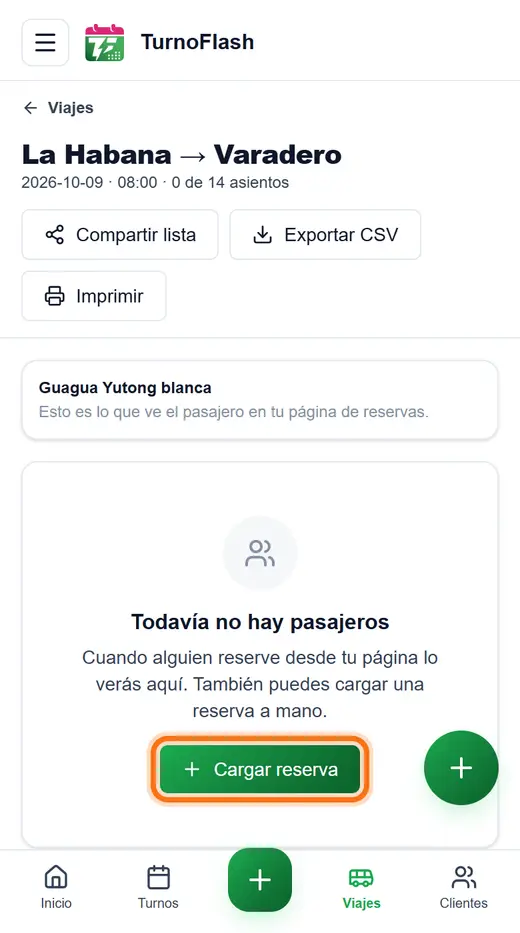
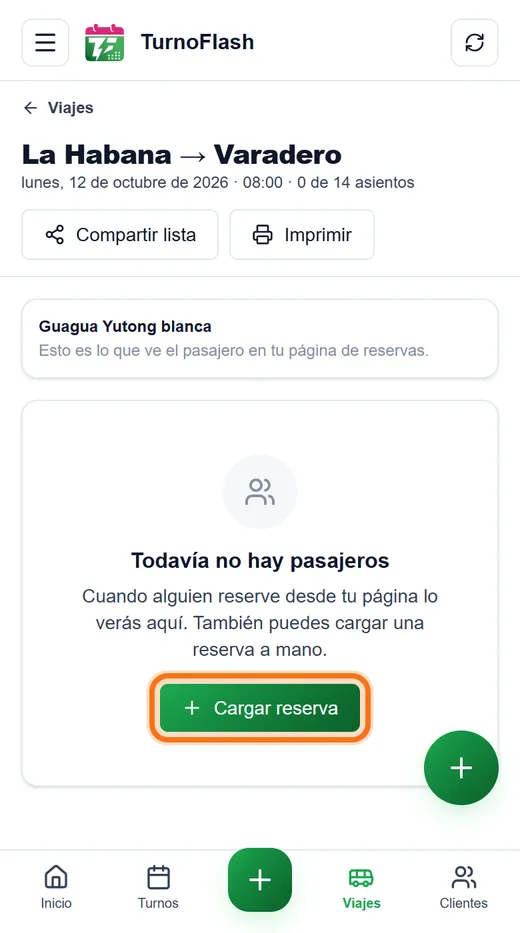
docs: user manual, guide photo and P3 closed
User manual updated with everything visible that changed, the trip detail
photo of the first-steps guide retaken, and the QA plan and project memory
brought up to date. Auto-memory is disabled for the project, as the
factory expects.

diff --git a/docs/user-manual/turno-flash-user-manual.html b/docs/user-manual/turno-flash-user-manual.html
@@ -504,7 +504,7 @@
     <li><strong>Atajos</strong> a las secciones que más se usan.</li>
     <li><strong>Próximos:</strong> los siguientes tres turnos del día que todavía no empezaron. <span class="ui">Ver todos →</span> te lleva a la agenda completa.</li>
   </ul>
-  <p>En la computadora el menú está siempre a la izquierda; ahí también encuentras <span class="ui">Ayuda</span>, que abre esta guía, y puedes cambiar a <span class="ui">Tema oscuro</span> o <span class="ui">Cerrar sesión</span>. En el teléfono tienes una barra inferior con Inicio, Turnos, Clientes y Avisos, y un botón <span class="ui">+</span> en el centro que abre la agenda para crear un turno.</p>
+  <p>En la computadora el menú está siempre a la izquierda; ahí también encuentras <span class="ui">Ayuda</span>, que abre esta guía, y puedes cambiar a <span class="ui">Tema oscuro</span> o <span class="ui">Cerrar sesión</span>. En el teléfono tienes una barra inferior con Inicio, Turnos, Clientes y Avisos, y un botón <span class="ui">+</span> en el centro que abre la agenda para crear un turno. Arriba a la derecha, el botón de las flechas (<span class="ui">Actualizar</span>) vuelve a traer los datos sin salir de la pantalla.</p>
 
   <h2 id="td-turnos">La agenda de turnos</h2>
   <p>Todo pasa en <span class="path">Turnos</span>. Arriba eliges cómo ver la agenda:</p>
@@ -512,7 +512,7 @@
     <table>
       <thead><tr><th>Vista</th><th>Qué muestra</th></tr></thead>
       <tbody>
-        <tr><td><span class="ui">Lista</span></td><td class="wrap">Los turnos desde 7 días atrás hasta 60 días adelante, agrupados por día (Hoy, Mañana, luego la fecha) y dentro de cada día en <em>Mañana</em> y <em>Tarde</em>. Es la única vista con buscador y filtros por estado.</td></tr>
+        <tr><td><span class="ui">Lista</span></td><td class="wrap">Los turnos desde 7 días atrás hasta 60 días adelante, agrupados por día (<em>Hoy</em> y <em>Mañana</em> llevan también la fecha) y dentro de cada día en <em>Por la mañana</em> y <em>Por la tarde</em>. Es la única vista con buscador y filtros por estado.</td></tr>
         <tr><td><span class="ui">Día</span></td><td class="wrap">Una grilla de 8:00 a 20:00 con cada turno dibujado en su horario. Usa las flechas para cambiar de día y <span class="ui">Hoy</span> para volver. Tocar un hueco libre abre el formulario con esa hora ya puesta.</td></tr>
         <tr><td><span class="ui">Semana</span></td><td class="wrap">Los siete días de la semana, de lunes a domingo, en la misma grilla horaria. También puedes tocar un hueco para crear un turno ahí.</td></tr>
       </tbody>
@@ -520,7 +520,7 @@
   </div>
 
   <h3>Buscar y filtrar</h3>
-  <p>En la vista Lista, el buscador encuentra turnos por nombre o teléfono del cliente, por servicio o por profesional. Debajo, las pastillas filtran por estado: Todos, Pendientes, Confirmados, Recordatorio, Cliente OK, Check-in, En curso, Completados y Cancelados. Si hay muchos turnos, al final aparece <span class="ui">Cargar más</span>.</p>
+  <p>En la vista Lista, el buscador encuentra turnos por nombre o teléfono del cliente, por servicio o por profesional. Debajo, las pastillas filtran por estado: Todos, Pendientes, Confirmados, Recordatorio, Cliente OK, Check-in, En curso, Completados, Cancelados y No vino. El buscador y los filtros revisan todos los turnos del período, no solo los que ya están en pantalla. Si hay muchos turnos, al final aparece <span class="ui">Cargar más</span>.</p>
 
   <h3>Crear un turno</h3>
   <ol class="steps">
@@ -581,7 +581,7 @@
   <h2 id="td-clientes">Clientes</h2>
   <p>En <span class="path">Clientes</span> tienes la base de clientes activos, con buscador por nombre, teléfono o email. Cada tarjeta muestra el teléfono, el email, las notas y una marca <strong>WA</strong> si tiene WhatsApp cargado.</p>
   <ul>
-    <li><span class="ui">Nuevo cliente</span>: nombre, apellido y teléfono son obligatorios; WhatsApp, email y notas (preferencias, alergias…) son opcionales.</li>
+    <li><span class="ui">Nuevo cliente</span>: nombre y teléfono son obligatorios; apellido, WhatsApp, email y notas (preferencias, alergias…) son opcionales.</li>
     <li>Menú <span class="ui">⋮</span> › <span class="ui">Editar</span> para corregir datos.</li>
     <li>Menú <span class="ui">⋮</span> › <span class="ui">Desactivar</span> para sacarlo de la lista sin borrar su historial. Lo encuentras en <span class="ui">Inactivos</span>, donde <span class="ui">⋮</span> › <span class="ui">Reactivar</span> lo devuelve a la lista.</li>
     <li><span class="ui">CSV</span> descarga todos los clientes activos con sus contactos, cantidad de turnos, faltas y última visita.</li>
@@ -619,7 +619,7 @@
   <p>El interruptor <span class="ui">Activo</span> / <span class="ui">Pausado</span> de cada tarjeta deja de ofrecer un servicio sin borrarlo. Puedes volver a activarlo cuando quieras.</p>
 
   <h2 id="td-profesionales">Profesionales</h2>
-  <p>En <span class="path">Profesionales</span> cargas a las personas que atienden. Pulsa <span class="ui">Nuevo profesional</span> y completa nombre y apellido; el resto es opcional: apodo (es el nombre que se muestra), teléfono, email, especialidades separadas por coma, una bio y un color para la agenda. Además hay tres casillas:</p>
+  <p>En <span class="path">Profesionales</span> cargas a las personas que atienden. Pulsa <span class="ui">Nuevo profesional</span> y completa nombre y apellido; el resto es opcional: apodo (es el nombre que se muestra), teléfono, email, especialidades separadas por coma, una bio y un color para la agenda. Si esa persona entra a la app con su propia cuenta, elígela en <strong>Cuenta de la app</strong>: así verá la pastilla <span class="ui">Mis turnos</span> en su agenda. Además hay tres casillas:</p>
   <ul>
     <li><strong>Profesional activo:</strong> si está desmarcada, la persona queda pausada.</li>
     <li><strong>Se pueden reservar turnos con esta persona:</strong> desmárcala para quien no atiende clientes (por ejemplo, recepción).</li>
@@ -641,7 +641,7 @@
   <ol class="steps">
     <li>Entra a <span class="path">Ajustes</span> y enciende <strong>Página de reservas online</strong>.</li>
     <li>Pulsa <span class="ui">Guardar cambios</span>. Hasta que guardes, el link no funciona.</li>
-    <li>Usa <span class="ui">Copiar link</span>, <span class="ui">Compartir</span> (abre WhatsApp con el mensaje <em>Reserva tu turno online</em> y el link) o <span class="ui">Ver página</span> para probarla.</li>
+    <li>Con la página ya activa aparecen <span class="ui">Copiar link</span>, <span class="ui">Compartir</span> (abre WhatsApp con el mensaje <em>Reserva tu turno online</em> y el link) y <span class="ui">Ver página</span> para probarla.</li>
   </ol>
   <p>Debajo del link, la app te avisa cuántos profesionales aparecerán y, para los que no, qué les falta (horario o servicios), con un acceso directo a <span class="path">Profesionales</span>.</p>
 
@@ -654,10 +654,10 @@
     <span class="chip plain">Listo</span>
   </div>
   <ul>
-    <li>En <em>¿Con quién?</em> puede elegir a un profesional o <strong>Sin preferencia</strong>, y la app asigna al primero que esté libre.</li>
+    <li>En <em>¿Con quién?</em> puede elegir a un profesional o <strong>Sin preferencia</strong>, y la app asigna al primero que esté libre. Si el servicio lo hace una sola persona, ese paso se salta.</li>
     <li>Solo ve horarios realmente libres, calculados con el horario de cada profesional, sus turnos, sus días libres y los cierres del negocio.</li>
-    <li>En <em>Tus datos</em> deja nombre, apellido, teléfono de WhatsApp (con selector de país), email opcional y una nota para el negocio.</li>
-    <li>Al final ve <strong>¡Turno confirmado!</strong> o, si el servicio requiere aprobación, <strong>Solicitud enviada</strong>, con su número de turno.</li>
+    <li>En <em>Tus datos</em> deja nombre, teléfono de WhatsApp (con selector de país) y, si quiere, apellido, email y una nota para el negocio. Su teléfono recuerda el nombre y el número para la próxima reserva.</li>
+    <li>Al final ve <strong>¡Turno confirmado!</strong> o, si el servicio requiere aprobación, <strong>Solicitud enviada</strong>, con su número de turno. Si cargaste el WhatsApp del negocio en <span class="path">Ajustes</span>, también ve el botón <span class="ui">Escribir al negocio</span>.</li>
   </ul>
   <div class="callout note">
     <span class="tag">Reglas de la reserva online</span>
@@ -720,10 +720,10 @@ Escribe <b>OK</b> para confirmar o <b>CANCELAR</b> si no puedes.</div>
 
   <h3>Cuando el cliente responde</h3>
   <ul>
-    <li><strong>OK, SI o CONFIRMO:</strong> el turno pasa a <span class="chip st-client_confirmed">Cliente confirmó</span> y el negocio recibe <em>Cliente confirmó asistencia</em>. En un turno pendiente solo queda anotado que vendrá: aprobarlo sigue siendo decisión tuya.</li>
+    <li><strong>OK, SI, CONFIRMO o un 👍:</strong> el turno pasa a <span class="chip st-client_confirmed">Cliente confirmó</span> y el negocio recibe <em>Cliente confirmó asistencia</em>. En un turno pendiente solo queda anotado que vendrá: aprobarlo sigue siendo decisión tuya.</li>
     <li><strong>CANCELAR o NO:</strong> el turno se cancela solo, el cliente recibe la confirmación y el negocio, un aviso de <em>Turno cancelado por el cliente</em>.</li>
     <li><strong>Un número del 1 al 5</strong> después de un pedido de valoración: se guarda como rating y alimenta tus reportes.</li>
-    <li><strong>Cualquier otra cosa:</strong> el cliente recibe un mensaje que le vuelve a explicar cómo confirmar o cancelar.</li>
+    <li><strong>Cualquier otra cosa, o una nota de voz:</strong> el cliente recibe un mensaje que le vuelve a explicar cómo confirmar o cancelar.</li>
   </ul>
 
   <h3>Enviar recordatorios a mano</h3>
@@ -775,8 +775,8 @@ Escribe <b>OK</b> para confirmar o <b>CANCELAR</b> si no puedes.</div>
 
   <h2 id="td-licencia">Suscripción y licencia</h2>
   <ul>
-    <li>Empiezas con <strong>7 días de prueba</strong>. Cuando la licencia se acerca a su vencimiento, la app muestra un aviso arriba.</li>
-    <li>Al vencer tienes <strong>7 días de gracia</strong> para renovar. Pasado ese plazo aparece <strong>Acceso bloqueado</strong>: tus datos no se borran, pero no puedes seguir trabajando hasta renovar. Solo quedan abiertas <span class="path">Suscripción</span> y <span class="path">Mi cuenta</span>.</li>
+    <li>Empiezas con <strong>7 días de prueba</strong>. Cuando faltan 7 días o menos, <span class="path">Inicio</span> muestra un aviso con los días de acceso que te quedan.</li>
+    <li>Al vencer tienes <strong>7 días de gracia</strong> para renovar, y el aviso te dice cuántos faltan para el bloqueo. Pasado ese plazo aparece <strong>Acceso bloqueado</strong>: tus datos no se borran, pero no puedes seguir trabajando hasta renovar. Solo quedan abiertas <span class="path">Suscripción</span> y <span class="path">Mi cuenta</span>.</li>
     <li>Para activar o renovar la licencia, entra en <span class="path">Suscripción</span> y pulsa <span class="ui">Escribir a soporte por WhatsApp</span>: te indicamos cómo pagar y activamos la licencia nosotros. El mismo botón aparece en la pantalla de Acceso bloqueado.</li>
   </ul>
 
@@ -837,7 +837,7 @@ Escribe <b>OK</b> para confirmar o <b>CANCELAR</b> si no puedes.</div>
   <h2 id="tp-agenda">La agenda</h2>
   <p>En <span class="path">Turnos</span> elige la vista:</p>
   <ul>
-    <li><span class="ui">Lista</span>: turnos por día, con buscador (cliente, teléfono, servicio o profesional) y filtros por estado.</li>
+    <li><span class="ui">Lista</span>: turnos por día, con buscador (cliente, teléfono, servicio o profesional) y filtros por estado. Si el dueño vinculó tu cuenta con tu ficha de profesional, verás también la pastilla <span class="ui">Mis turnos</span>, que deja solo los tuyos.</li>
     <li><span class="ui">Día</span>: grilla de 8:00 a 20:00. Toca un hueco libre para crear un turno a esa hora.</li>
     <li><span class="ui">Semana</span>: los siete días en la misma grilla.</li>
   </ul>
@@ -898,7 +898,7 @@ Escribe <b>OK</b> para confirmar o <b>CANCELAR</b> si no puedes.</div>
   <h2 id="tp-clientes">Clientes</h2>
   <ul>
     <li>Busca por nombre, teléfono o email.</li>
-    <li><span class="ui">Nuevo cliente</span>: nombre, apellido y teléfono son obligatorios. Anota en <em>Notas</em> lo que conviene recordar (preferencias, alergias).</li>
+    <li><span class="ui">Nuevo cliente</span>: nombre y teléfono son obligatorios; el apellido es opcional. Anota en <em>Notas</em> lo que conviene recordar (preferencias, alergias).</li>
     <li>Menú <span class="ui">⋮</span> › <span class="ui">Editar</span> para corregir datos, o <span class="ui">Desactivar</span> para sacarlo de la lista. Un cliente desactivado ya no aparece, así que úsalo solo cuando corresponda.</li>
   </ul>
 
@@ -1041,7 +1041,7 @@ Escribe <b>OK</b> para confirmar o <b>CANCELAR</b> si no puedes.</div>
   <h3>Otras acciones del menú ⋮ de cada reserva</h3>
   <ul>
     <li><span class="ui">Editar nombres de pasajeros</span>: un nombre por asiento.</li>
-    <li><span class="ui">Aprobar reserva</span> o <span class="ui">Confirmar</span>.</li>
+    <li><span class="ui">Aprobar reserva</span>, mientras esté por aprobar.</li>
     <li><span class="ui">Cancelar reserva</span>: los asientos vuelven a quedar libres y, con WhatsApp conectado, el pasajero recibe un aviso. Si ya había pagado algo, el mensaje le pide contactarte para la devolución.</li>
   </ul>
 
@@ -1059,7 +1059,7 @@ Escribe <b>OK</b> para confirmar o <b>CANCELAR</b> si no puedes.</div>
   <h3>La hoja del chofer</h3>
   <ul>
     <li><span class="ui">Imprimir</span> genera una hoja con el nombre del negocio, los datos de la salida y una fila <strong>por pasajero</strong>: nombre, quién reservó, teléfono, número de reserva, estado, extra, total, lo que pagó y <strong>lo que hay que cobrarle</strong>, con totales al pie. Desde el diálogo de impresión puedes guardarla como PDF.</li>
-    <li><span class="ui">Exportar CSV</span> descarga la misma información para Excel o Google Sheets.</li>
+    <li><span class="ui">Exportar CSV</span> descarga la misma información para Excel o Google Sheets. En el teléfono ese botón no aparece.</li>
     <li><span class="ui">Compartir lista</span> manda la lista como texto (por ejemplo, al WhatsApp del chofer): cada pasajero con su parada y hora de recogida, su teléfono y lo que hay que cobrarle. En la app del teléfono es la única opción; Imprimir y Exportar CSV están en la versión web.</li>
   </ul>
   <p>Los importes se reparten por pasajero: una reserva de 4 asientos por 2 000 figura como 500 por persona. Las reservas canceladas no aparecen ni suman en los totales.</p>
@@ -1067,8 +1067,8 @@ Escribe <b>OK</b> para confirmar o <b>CANCELAR</b> si no puedes.</div>
   <h2 id="vd-pagina">Tu página de reservas</h2>
   <p>En <span class="path">Ajustes</span>, la sección <strong>Página de reservas de viajes</strong> tiene:</p>
   <ul>
-    <li>El interruptor para activarla (luego <span class="ui">Guardar cambios</span>) y el link, con <span class="ui">Copiar link</span>, <span class="ui">Compartir</span> (WhatsApp con <em>Reserva tu asiento</em>) y <span class="ui">Ver página</span>. Si no tienes ninguna salida publicada, te lo advierte.</li>
-    <li><strong>Cómo se paga el anticipo:</strong> las instrucciones que el cliente ve apenas reserva y en el WhatsApp de confirmación, con formato de WhatsApp. Por ejemplo: <em>*Transfiere el anticipo* a la tarjeta 9200 1299 1234 5678 (Juan Pérez) y envíanos el comprobante por WhatsApp.</em></li>
+    <li>El interruptor para activarla (luego <span class="ui">Guardar cambios</span>) y el link. Con la página activa aparecen <span class="ui">Copiar link</span>, <span class="ui">Compartir</span> (WhatsApp con <em>Reserva tu asiento</em>) y <span class="ui">Ver página</span>. Si no tienes ninguna salida publicada, te lo advierte.</li>
+    <li><strong>Cómo se paga el anticipo:</strong> las instrucciones que el cliente ve apenas reserva y en el WhatsApp de confirmación, con formato de WhatsApp. Por ejemplo: <em>*Transfiere el anticipo* a la tarjeta 9200 XXXX XXXX XXXX (tu nombre) y envíanos el comprobante por WhatsApp.</em> Si la página está activa y este texto está vacío, la app te lo avisa.</li>
     <li><strong>Horas para pagar el anticipo:</strong> de 1 a 168 (una semana). Viene en 24.</li>
   </ul>
 
@@ -1082,8 +1082,8 @@ Escribe <b>OK</b> para confirmar o <b>CANCELAR</b> si no puedes.</div>
   <ol class="steps">
     <li><strong>Elige tu viaje:</strong> ve las salidas publicadas con foto, fecha, precio desde y asientos que quedan, o si están sin asientos, por abrir o cerradas.</li>
     <li><strong>Tu reserva:</strong> elige dónde lo recogen, solo ida o ida y vuelta, cuántos asientos (hasta el máximo por reserva) y escribe el nombre de <strong>cada</strong> pasajero, que aquí es obligatorio.</li>
-    <li><strong>Tus datos:</strong> nombre, apellido, teléfono de WhatsApp con su país, email opcional y una nota.</li>
-    <li><strong>Listo:</strong> ve <strong>¡Asiento reservado!</strong> o <strong>Solicitud enviada</strong> si la salida requiere aprobación, con el resumen, el total, el número de reserva, el anticipo que falta, hasta cuándo se guardan sus asientos y tus instrucciones de pago.</li>
+    <li><strong>Tus datos:</strong> nombre, teléfono de WhatsApp con su país y, si quiere, apellido, email y una nota. Su teléfono recuerda el nombre y el número para la próxima reserva.</li>
+    <li><strong>Listo:</strong> ve <strong>¡Asiento reservado!</strong> o <strong>Solicitud enviada</strong> si la salida requiere aprobación, con el resumen, el total, el número de reserva, el anticipo que falta, hasta cuándo se guardan sus asientos y tus instrucciones de pago, con un botón <span class="ui">Copiar instrucciones</span>. Si cargaste el WhatsApp del negocio, también ve <span class="ui">Escribir al negocio</span>.</li>
   </ol>
   <p>La página revisa sola cada 30 segundos cuántos asientos quedan, y vuelve a comprobarlo antes de pedir los datos, para que nadie complete el formulario de una salida que se llenó. Es imposible vender más asientos de los que hay. Un mismo teléfono puede tener hasta 3 reservas futuras.</p>
 

diff --git a/.claude/PRPs/qa-piloto-cuba.md b/.claude/PRPs/qa-piloto-cuba.md
@@ -359,32 +359,32 @@ Formato de cada punto: **id · hallazgos · título**. Quién lo sufre / qué pa
 
 ### P3 — Textos y detalles menores
 
-- **P3-01 · F90+M59 · G47 · Voseo**: `CurrencyCard.tsx:78` "cobras"; `reports/page.tsx:158` "Pídele".
-- **P3-02 · F88+M60 · "MAÑANA" dos veces**: `appointments/page.tsx:737,764` "Por la mañana"/"Por la tarde"; fecha junto a Hoy/Mañana (`:950-963`).
-- **P3-03 · F99+M53+M54+M63 · Copy de viajes**: `TripsSteps.tsx:95` `first-letter:uppercase`; `:105` y `TripsFlow.tsx:132` singular "1 asiento"; `BookingSteps.tsx:314` "confirmarte la reserva"; `utils/format.ts:23` `useGrouping:"always"` (también `wa-trip-send:97`, `daily-summary:250`, `widgets.tsx:14`); fecha formateada en `trips/details/page.tsx:392`; placeholder `ManualBookingSheet.tsx:118` "+53 5XXXXXXX"; `htmlFor` en Field (`sheet.tsx:113`).
-- **P3-04 · G42+M28 · Reportes con "$"**: `useMoney()` en `reports/page.tsx:185,218,337` y en `charts.tsx`.
-- **P3-05 · G48+M62(rol)+F76(rol) · Rol "Staff"/"owner" en crudo**: usar `ROLE_META` en `Sidebar.tsx:190`, `Drawer.tsx:181`, `dashboard/page.tsx:194`, `account/page.tsx:113`.
-- **P3-06 · M62 (resto) · Menús**: no ofrecer "Confirmar" en una reserva ya confirmada (`PassengerRow.tsx:108`); RichText en `pickup_location`; CSV visible en móvil.
-- **P3-07 · M61+M68 · Títulos truncados**: `line-clamp-2` en el h1 del detalle de salida; `break-words` en el saludo (`dashboard/page.tsx:449`); el CTA se resuelve en P1-02.
-- **P3-08 · F68 · El trial dice "6 días" y "renuévala" con doble aviso**: CEIL en `check_license_status` (nueva migración); un solo aviso (`dashboard/page.tsx:436/475`); texto "Prueba gratis: te quedan N días". Se une con **G44** (gracia real de unos 8 días y "0 días restantes"; quitar `NEXT_PUBLIC_LICENSE_GRACE_PERIOD_DAYS`).
-- **P3-09 · F69+F70+F71 · Textos de onboarding**: `register/page.tsx:221` "escríbele al soporte"; FAQ `home-client.tsx:235,657`; en Ajustes, contacto "Pedir conexión de WhatsApp" + campo `whatsapp_phone`.
-- **P3-10 · F95+M55 · Sin contacto del negocio en la página pública**: `whatsapp_phone` en `public_booking_info`/trips info; enlace "Escribir al negocio" en el éxito y en `too_many_bookings`.
-- **P3-11 · F96+M32 · Vista previa de WhatsApp con marketing para dueños**: openGraph propio en `app/book/layout.tsx` y nuevo `app/trips/layout.tsx`; quitar `openGraph.url` del root.
-- **P3-12 · F97 · Zona horaria desde el exterior**: nota "Horarios en hora local del negocio" si el dispositivo está en otra zona.
-- **P3-13 · F94+M37 · Flujo público más corto**: saltar el paso de profesional si hay uno solo (`BookingFlow.tsx:159-180`); apellido opcional; recordar nombre y teléfono en el dispositivo → D-04.
-- **P3-14 · M51+M52 · Botón principal bajo el pliegue y Enter que envía**: contenedor sticky para el CTA (`BookingSteps.tsx:383`, `TripsSteps.tsx:361`); `enterKeyHint` + enfocar el siguiente campo.
-- **P3-15 · M56 · Copiar instrucciones del anticipo**: botón "Copiar instrucciones" (`TripsFlow.tsx:290`).
-- **P3-16 · F108 · Placeholder del anticipo que parece real**: "Ejemplo: 9200 XXXX…" y aviso si está vacío con la página activa (`TripBookingDetails.tsx:129-133`).
-- **P3-17 · F41+F37 · "No vino" en un turno en curso y transiciones solo en el cliente**: ocultar el tile (`AppointmentModal.tsx:491`); etiquetas en español (`appointments.service.ts:276`); `.eq('status', actual)` en el UPDATE (`:306`).
-- **P3-18 · F63+G13+G38+G39 · Permisos menores**: quitar `driver_phone` de `public_trips_info` (042:348-350); política RESTRICTIVE DELETE solo para owner/admin en customers/appointments; `special` en `canManageAppointments` (`appointments/page.tsx:122`); filtrar los DELETE de Realtime ajenos.
-- **P3-19 · F106+F107+F112+F113+F114 · Backend menor**: `z.iso.date()` (`public-booking/index.ts:49`); guard de módulo en `dashboard/layout.tsx`; `notify_business_new` solo `source='web'` (016); lock por organización + índice único en la numeración; índice `(organization_id, booking_phone_key(...))`.
-- **P3-20 · G15+G16+G20+G34+G35+G37 · WhatsApp y licencia menores**: no enviar resumen ni campañas con la licencia vencida o la org inactiva; RevenueCat (SANDBOX, GREATEST, `verify_jwt=false` en config.toml); revalidar la licencia tras la compra; resumen diario con viajes, moneda y reintento (`status='sent'`); dedup de wa-inbound borrando en el catch; notas de voz → aclaración y 👍 = confirmar.
-- **P3-21 · F101+F102+F104+F109+G45+G46 · Admin y ajustes menores**: confirmar al apagar un módulo; selector de organización al invitar; KPIs de Plataforma en rojo cuando hay fallos; textos de eliminar cuenta y de LicenseGate neutrales según el módulo; Compartir/Copiar solo con la página activa (`BookingPageDetails.tsx:55-63`); aviso "Solo el dueño puede…" uniforme.
-- **P3-22 · F92 · Búsqueda de la Lista solo sobre lo cargado**: chip "No vino" y búsqueda en el servidor.
-- **P3-23 · G27+G28 · Empleado**: vincular el usuario con su ficha de profesional + filtro "Mis turnos"; aviso de solo lectura en Viajes.
-- **P3-24 · M64+M65+M66 · Panel**: botón "Actualizar" en la cabecera móvil; guardar el tema solo cuando el usuario lo elige (`theme-context.tsx:70-76`); montar `useCapacitor()` (barra de estado).
-- **P3-25 · M69 · 320 px**: `ExceptionsEditor.tsx:119,140` en una columna por debajo de 360 px.
-- **P3-26 · M16+G18 · Avisos engañosos de WhatsApp**: el mensaje sí se entrega aunque OpenWA responda 500 (confirmado por Roberto), pero el envío manual muestra "Internal server error" en inglés y las filas quedan 'failed'. Téc: `services/appointments.service.ts:648-653`, mensaje en español y tratar el 500 de OpenWA como enviado-sin-confirmar. Las estadísticas de `platform/page.tsx:153-159` no deben alarmar por ese 500. `wa-inbound/index.ts:429-435`: la alerta "WhatsApp desconectado" no se guarda (`user_id` NOT NULL). **No** agregar reintentos, porque duplicarían los mensajes.
+- **P3-01 · ✅ HECHO 2026-10-08 · F90+M59 · G47 · Voseo**: `CurrencyCard.tsx:78` "cobras"; `reports/page.tsx:158` "Pídele".
+- **P3-02 · ✅ HECHO 2026-10-08 («Por la mañana»/«Por la tarde»; «Hoy · miércoles, 8 oct») · F88+M60 · "MAÑANA" dos veces**: `appointments/page.tsx:737,764` "Por la mañana"/"Por la tarde"; fecha junto a Hoy/Mañana (`:950-963`).
+- **P3-03 · ✅ HECHO 2026-10-08 (desplegado; `htmlFor` resuelto en `Field` con `useId` para todos los formularios) · F99+M53+M54+M63 · Copy de viajes**: `TripsSteps.tsx:95` `first-letter:uppercase`; `:105` y `TripsFlow.tsx:132` singular "1 asiento"; `BookingSteps.tsx:314` "confirmarte la reserva"; `utils/format.ts:23` `useGrouping:"always"` (también `wa-trip-send:97`, `daily-summary:250`, `widgets.tsx:14`); fecha formateada en `trips/details/page.tsx:392`; placeholder `ManualBookingSheet.tsx:118` "+53 5XXXXXXX"; `htmlFor` en Field (`sheet.tsx:113`).
+- **P3-04 · ✅ HECHO 2026-10-08 (`useMoney` en Reportes y en los gráficos; se quitó `formatMoney` de widgets) · G42+M28 · Reportes con "$"**: `useMoney()` en `reports/page.tsx:185,218,337` y en `charts.tsx`.
+- **P3-05 · ✅ HECHO 2026-10-08 (`ROLE_META` en Sidebar, Drawer y Mi cuenta; en Inicio `roleLabel` ya no se usaba) · G48+M62(rol)+F76(rol) · Rol "Staff"/"owner" en crudo**: usar `ROLE_META` en `Sidebar.tsx:190`, `Drawer.tsx:181`, `dashboard/page.tsx:194`, `account/page.tsx:113`.
+- **P3-06 · ✅ HECHO 2026-10-08 (sin «Confirmar» en reservas confirmadas; CSV oculto en móvil; `pickup_location` ya usaba RichText) · M62 (resto) · Menús**: no ofrecer "Confirmar" en una reserva ya confirmada (`PassengerRow.tsx:108`); RichText en `pickup_location`; CSV visible en móvil.
+- **P3-07 · ✅ HECHO 2026-10-08 · M61+M68 · Títulos truncados**: `line-clamp-2` en el h1 del detalle de salida; `break-words` en el saludo (`dashboard/page.tsx:449`); el CTA se resuelve en P1-02.
+- **P3-08 · ✅ HECHO 2026-10-08 (migración 067 aplicada: días redondeados hacia arriba y gracia de 7 días exactos; un solo aviso en Inicio; textos «Te quedan N días de acceso», sin distinguir prueba de licencia paga porque la BD no lo guarda; gracia fija en 7, ya no lee la variable de entorno) · F68 · El trial dice "6 días" y "renuévala" con doble aviso**: CEIL en `check_license_status` (nueva migración); un solo aviso (`dashboard/page.tsx:436/475`); texto "Prueba gratis: te quedan N días". Se une con **G44** (gracia real de unos 8 días y "0 días restantes"; quitar `NEXT_PUBLIC_LICENSE_GRACE_PERIOD_DAYS`).
+- **P3-09 · ✅ HECHO 2026-10-08 (registro: «Para cambiarlo después, escríbenos por WhatsApp»; FAQ y CTA del landing ya no hablan de invitación; enlace «Pedir conexión de WhatsApp» en Ajustes; el campo `whatsapp_phone` ya estaba en ContactCard) · F69+F70+F71 · Textos de onboarding**: `register/page.tsx:221` "escríbele al soporte"; FAQ `home-client.tsx:235,657`; en Ajustes, contacto "Pedir conexión de WhatsApp" + campo `whatsapp_phone`.
+- **P3-10 · ✅ HECHO 2026-10-08 (migración 068: `contact_phone` en los dos payloads públicos; `BusinessContactLink` en el éxito y al llegar al límite) · F95+M55 · Sin contacto del negocio en la página pública**: `whatsapp_phone` en `public_booking_info`/trips info; enlace "Escribir al negocio" en el éxito y en `too_many_bookings`.
+- **P3-11 · ✅ HECHO 2026-10-08 (openGraph propio en /book y nuevo `app/trips/layout.tsx`; sin `openGraph.url` en la raíz) · F96+M32 · Vista previa de WhatsApp con marketing para dueños**: openGraph propio en `app/book/layout.tsx` y nuevo `app/trips/layout.tsx`; quitar `openGraph.url` del root.
+- **P3-12 · ✅ HECHO 2026-10-08 (`BusinessTimeNote`: compara el reloj del dispositivo con el del negocio, no el nombre de la zona) · F97 · Zona horaria desde el exterior**: nota "Horarios en hora local del negocio" si el dispositivo está en otra zona.
+- **P3-13 · ✅ HECHO 2026-10-08 (migración 069: apellido opcional en las dos RPC; se recuerda nombre y teléfono en `localStorage` `turnoflash:customer`; con un solo profesional se salta «¿Con quién?». Desplegado y comprobado desde fuera; el panel tampoco exige apellido) · F94+M37 · Flujo público más corto**: saltar el paso de profesional si hay uno solo (`BookingFlow.tsx:159-180`); apellido opcional; recordar nombre y teléfono en el dispositivo → D-04.
+- **P3-14 · ✅ HECHO 2026-10-08 (botón fijo abajo en Tus datos y en asientos; Enter pasa al campo siguiente; probado a 360x640) · M51+M52 · Botón principal bajo el pliegue y Enter que envía**: contenedor sticky para el CTA (`BookingSteps.tsx:383`, `TripsSteps.tsx:361`); `enterKeyHint` + enfocar el siguiente campo.
+- **P3-15 · ✅ HECHO 2026-10-08 · M56 · Copiar instrucciones del anticipo**: botón "Copiar instrucciones" (`TripsFlow.tsx:290`).
+- **P3-16 · ✅ HECHO 2026-10-08 · F108 · Placeholder del anticipo que parece real**: "Ejemplo: 9200 XXXX…" y aviso si está vacío con la página activa (`TripBookingDetails.tsx:129-133`).
+- **P3-17 · ✅ HECHO 2026-10-08 (sin «No vino» en un turno en curso; etiquetas con `getStatusLabel`; el UPDATE exige el estado que se validó) · F41+F37 · "No vino" en un turno en curso y transiciones solo en el cliente**: ocultar el tile (`AppointmentModal.tsx:491`); etiquetas en español (`appointments.service.ts:276`); `.eq('status', actual)` en el UPDATE (`:306`).
+- **P3-18 · ✅ HECHO 2026-10-08 salvo `special` (`driver_phone` fuera del payload público, 068; borrar clientes y turnos solo owner/admin, migración 070 RESTRICTIVE; los DELETE ajenos de Realtime ya se filtraban; `special` sigue aparcado por decisión de Roberto) · F63+G13+G38+G39 · Permisos menores**: quitar `driver_phone` de `public_trips_info` (042:348-350); política RESTRICTIVE DELETE solo para owner/admin en customers/appointments; `special` en `canManageAppointments` (`appointments/page.tsx:122`); filtrar los DELETE de Realtime ajenos.
+- **P3-19 · ✅ HECHO 2026-10-08 (migración 071: `notify_business_new` solo con `source = web`, lock por organización + índices únicos en la numeración, índice por `booking_phone_key`; guard de módulo en el layout del panel; `z.iso.date()` en `public-booking`, desplegado) · F106+F107+F112+F113+F114 · Backend menor**: `z.iso.date()` (`public-booking/index.ts:49`); guard de módulo en `dashboard/layout.tsx`; `notify_business_new` solo `source='web'` (016); lock por organización + índice único en la numeración; índice `(organization_id, booking_phone_key(...))`.
+- **P3-20 · ✅ HECHO 2026-10-08 (desplegado: resumen diario y campañas no salen con licencia vencida u org inactiva; resumen con moneda del negocio y línea de viajes; `wa-inbound` olvida el evento si falla, trata una nota de voz como respuesta ilegible y un 👍 solo como confirmación; migración 072: los eventos SANDBOX de RevenueCat solo se auditan y una compra nunca acorta la licencia (GREATEST); la licencia se revalida tras la compra. **No se hace** el reintento del resumen: OpenWA responde 500 y entrega, reintentar duplicaría. Sin probar con teléfono real) · G15+G16+G20+G34+G35+G37 · WhatsApp y licencia menores**: no enviar resumen ni campañas con la licencia vencida o la org inactiva; RevenueCat (SANDBOX, GREATEST, `verify_jwt=false` en config.toml); revalidar la licencia tras la compra; resumen diario con viajes, moneda y reintento (`status='sent'`); dedup de wa-inbound borrando en el catch; notas de voz → aclaración y 👍 = confirmar.
+- **P3-21 · ✅ HECHO 2026-10-08 (confirmación al apagar un módulo; selector de negocio al invitar como admin; Errores en rojo solo si hay sin resolver; Copiar/Compartir solo con la página activa; los avisos «Solo los dueños pueden…» ya eran uniformes y Mi cuenta / LicenseGate no nombran módulos) · F101+F102+F104+F109+G45+G46 · Admin y ajustes menores**: confirmar al apagar un módulo; selector de organización al invitar; KPIs de Plataforma en rojo cuando hay fallos; textos de eliminar cuenta y de LicenseGate neutrales según el módulo; Compartir/Copiar solo con la página activa (`BookingPageDetails.tsx:55-63`); aviso "Solo el dueño puede…" uniforme.
+- **P3-22 · ✅ HECHO 2026-10-08 (la Lista filtra estado y texto en el servidor, solo en vista Lista; chip «No vino»; probado con el empleado QA) · F92 · Búsqueda de la Lista solo sobre lo cargado**: chip "No vino" y búsqueda en el servidor.
+- **P3-23 · ✅ HECHO 2026-10-08 (en Profesionales el dueño elige la «Cuenta de la app» de cada uno, `staff_members.user_id`; chip «Mis turnos» en la Lista para el empleado vinculado; aviso en Viajes de qué puede hacer; probado con el empleado QA y vínculo deshecho) · G27+G28 · Empleado**: vincular el usuario con su ficha de profesional + filtro "Mis turnos"; aviso de solo lectura en Viajes.
+- **P3-24 · ✅ HECHO 2026-10-08 (botón «Actualizar» en la cabecera móvil; el tema solo se guarda si el usuario lo elige; `useCapacitor()` montado en el layout del panel — **probar la barra de estado en la APK**) · M64+M65+M66 · Panel**: botón "Actualizar" en la cabecera móvil; guardar el tema solo cuando el usuario lo elige (`theme-context.tsx:70-76`); montar `useCapacitor()` (barra de estado).
+- **P3-25 · ✅ HECHO 2026-10-08 · M69 · 320 px**: `ExceptionsEditor.tsx:119,140` en una columna por debajo de 360 px.
+- **P3-26 · ✅ HECHO 2026-10-08 (el envío manual trata `HTTP_500` de OpenWA como enviado y da un mensaje en español para el resto; Plataforma dice «sin confirmar entrega»; `wa-inbound` guarda la alerta por cada dueño, desplegado) · M16+G18 · Avisos engañosos de WhatsApp**: el mensaje sí se entrega aunque OpenWA responda 500 (confirmado por Roberto), pero el envío manual muestra "Internal server error" en inglés y las filas quedan 'failed'. Téc: `services/appointments.service.ts:648-653`, mensaje en español y tratar el 500 de OpenWA como enviado-sin-confirmar. Las estadísticas de `platform/page.tsx:153-159` no deben alarmar por ese 500. `wa-inbound/index.ts:429-435`: la alerta "WhatsApp desconectado" no se guarda (`user_id` NOT NULL). **No** agregar reintentos, porque duplicarían los mensajes.
 
 ---
 

diff --git a/.claude/memory/project/qa-piloto-cuba.md b/.claude/memory/project/qa-piloto-cuba.md
@@ -97,3 +97,46 @@ Relacionado: [[whatsapp-automatizaciones]], [[modulo-reserva-asientos]], [[reser
   service worker descartado en D-02).
 - Los turnos de prueba T-0062 y T-0063 (7 y 8 oct) ya pasaron. En producción quedan los negocios `qa-*` y
   "Organización test" con datos "QA", a propósito.
+
+## P3 cerrado (2026-10-08)
+
+- **Todo hecho salvo `special`** (P3-18, aparcado por Roberto) y el reintento del resumen diario, que **no se hace**:
+  OpenWA responde 500 y entrega, reintentar duplicaría.
+- **Migraciones 067-072 aplicadas.** 067 días de licencia redondeados hacia arriba y gracia de 7 días exactos
+  (los textos «Te quedan N días de acceso» salen de `check_license_status`; `getGracePeriodDays()` devuelve 7 fijo).
+  068 `contact_phone` en los payloads públicos y sin `driver_phone`. 069 apellido opcional en las RPC de reserva.
+  070 borrar clientes/turnos solo owner/admin (RESTRICTIVE). 071 `notify_business_new` solo con `source = web`,
+  numeración con lock por organización + índices únicos, índice por `booking_phone_key`. 072 RevenueCat: los eventos
+  **SANDBOX solo se auditan** y una compra nunca acorta la licencia (GREATEST).
+- **Edge functions desplegadas el 2026-10-08** (Roberto lo pidió esa vez; no es permiso permanente, preguntar la
+  próxima): `public-booking`, `public-trips`, `wa-trip-send`, `daily-summary`, `wa-campaign`, `wa-inbound`.
+  Comprobadas desde fuera con la clave anon las dos públicas. **Sin probar con teléfono real:** 👍 = confirmar,
+  nota de voz → aclaración, resumen diario con viajes y moneda.
+- **Ojo con las compras de prueba:** `.env.local` usa la key `test_` de RevenueCat (Test Store). Desde la 072 esas
+  compras ya no extienden la licencia; para probar el flujo completo hay que mirar `subscription_events`.
+- **Lo no obvio:**
+  - `Field` (`components/ui/sheet.tsx`) enlaza solo la etiqueta con su primer hijo (`useId` + `cloneElement`).
+  - `fmtMoney` fuerza el separador de miles; Reportes y gráficos usan `useMoney()` (ya no existe `formatMoney`).
+  - Rol visible: `ROLE_META[role].label`, nunca el valor crudo.
+  - Apellido opcional en todos lados (reserva pública, ficha de cliente, alta rápida): se guarda `''`.
+  - Páginas públicas: `components/booking/BusinessInfo.tsx` (`BusinessContactLink`, `BusinessTimeNote`);
+    `focusNextOnEnter` y `stickyActionClasses` en `BookingSteps.tsx`; el cliente se recuerda en `localStorage`
+    `turnoflash:customer`; con un solo profesional se salta «¿Con quién?».
+  - La Lista de turnos filtra estado, texto y «Mis turnos» **en el servidor** (solo en vista Lista).
+    «Mis turnos» aparece si `staff_members.user_id` = usuario; el dueño lo elige en Profesionales («Cuenta de la app»).
+  - `updateStatus` exige en el UPDATE el estado que validó: 0 filas también puede ser «alguien lo cambió».
+  - El layout del panel redirige a Inicio si la ruta es de un módulo apagado (`MODULE_ROUTES`), salvo admin.
+  - `sendReminder` trata `code: "HTTP_500"` de wa-send como enviado.
+  - Las `public_*_info` no tienen EXECUTE para `anon` (las llama la edge con clave de servicio): al ensayar, no usar
+    `SET LOCAL ROLE anon`. Para ensayar las RPC de reserva sin crear nada, pasar un `service_id`/`trip_id` inexistente.
+  - **Scripts de edición:** un heredoc de Bash colapsa `\\` en `\` y se trunca si es largo; escribir el script con
+    Write en el scratchpad y ejecutarlo.
+  - **Rehacer una foto de la guía:** `playwright-core` en el scratchpad + Chromium de `ms-playwright`, 390x700 con
+    `deviceScaleFactor: 2`, `sharp().resize(520, 933).webp({ quality: 80 })`, contorno naranja `#f97316` por estilo
+    en línea, sobre un negocio `qa-fixture-*` creado con la clave de servicio y borrado en el `finally`.
+- **Manual y guía al día:** `docs/user-manual/` actualizado con lo visible nuevo; `passenger.webp` rehecha. Las otras
+  7 fotos muestran la cabecera sin el botón «Actualizar» (diferencia menor, sin rehacer).
+- **Pendiente:** nada de P3 está commiteado (Roberto no lo pidió); probar en la APK la barra de estado
+  (`useCapacitor` montado en el layout) junto con el resto de la lista de teléfono real.
+- **Visto de paso:** 6 negocios reales (AgroRed, DveloxSoft SC, LeoDev, Negocio, Negocio test registro, Notengo)
+  tienen la licencia vencida hace más de 100 días. `roleLabel` en `dashboard/page.tsx` es código muerto anterior.

diff --git a/.claude/memory/MEMORY.md b/.claude/memory/MEMORY.md
@@ -12,7 +12,7 @@
 - [Estado actual](project/estado-actual-2026-09.md) — foto de sep 2026 + actualización 2026-10-08: qué está hecho, agujeros (cero tests, cero CI, sin Sentry), dominio `turno-flash.vercel.app`, **commits del 5-6 oct sin subir** y APK vieja en Play; por qué los docs mienten
 - [Rediseno de UI](project/rediseno-ui-migracion.md) — completo (9/9) desde 2026-09-10, incluidos details e invite; decisiones cerradas
 - [Reserva online](project/reserva-online.md) — implementada 2026-09-10 (migraciones 029-031 + edge `public-booking`); horario y servicios por profesional (estricto), aprobacion por servicio, opt-in, vacaciones; `/book?b=<slug>`
-- [QA piloto Cuba](project/qa-piloto-cuba.md) — plan P0-P3 en `.claude/PRPs/qa-piloto-cuba.md`; **P0, P1 y P2 cerrados** (salvo P1-26, Mac), sigue P3; falta APK nueva + pruebas en teléfono real, SMTP propio y el WhatsApp de cada dueño; offline del panel, guía de primeros pasos; RLS rechaza en silencio; roles decididos; cómo probar con un negocio desechable
+- [QA piloto Cuba](project/qa-piloto-cuba.md) — plan P0-P3 en `.claude/PRPs/qa-piloto-cuba.md`; **P0, P1 y P2 cerrados** (salvo P1-26, Mac); **P3 cerrado** el 2026-10-08 salvo `special` (migraciones 067-072 aplicadas, funciones desplegadas, **nada commiteado**; las compras de prueba de RevenueCat ya no extienden la licencia); falta APK nueva + pruebas en teléfono real, SMTP propio y el WhatsApp de cada dueño; offline del panel, guía de primeros pasos; RLS rechaza en silencio; roles decididos; cómo probar con un negocio desechable
 - [Modulo reserva de asientos](project/modulo-reserva-asientos.md) — 9/10 fases (migraciones 033-047, edges public-trips y wa-trip-send, dashboard, pagina publica /trips, WhatsApp incl. cancelaciones); solo falta el cron de vencimiento (frenado otra vez 2026-09-12); anticipo y confirmacion son ejes independientes
 - [WhatsApp y automatizaciones](project/whatsapp-automatizaciones.md) — OpenWA, edge functions por intent, crons cada 15 min, toggles por negocio; los HTTP 500 de OpenWA NO impiden la entrega; clave de servicio sb_secret en Edge; formato y contacto de los mensajes (`wa-message.ts`)
 - [Enforcement de licencia](project/license-enforcement.md) — bloqueo de trial vencido (RLS de escritura + LicenseGate); gracia de 7d hardcodeada en SQL a sincronizar con el cliente

diff --git a/.claude/memory/project/license-enforcement.md b/.claude/memory/project/license-enforcement.md
@@ -20,3 +20,5 @@ admin; `service_role` (webhook de RevenueCat, self-signup) sigue pasando.
 no en solo lectura. Hoy las lecturas siguen abiertas: hay que cerrarlas (punto pendiente del plan
 `qa-piloto-cuba`). El cobro en Cuba será por transferencia más WhatsApp a soporte, y el admin extiende la
 licencia a mano. No hay licencias largas para los negocios piloto.
+
+**Migración 067 (2026-10-08):** la gracia ya no se configura en el cliente: son 7 días fijos en SQL y en `getGracePeriodDays()`. El acoplamiento con `NEXT_PUBLIC_LICENSE_GRACE_PERIOD_DAYS` de arriba ya no aplica (la variable sigue en `.env.local` y en el README, sin efecto). Los días se redondean hacia arriba.
